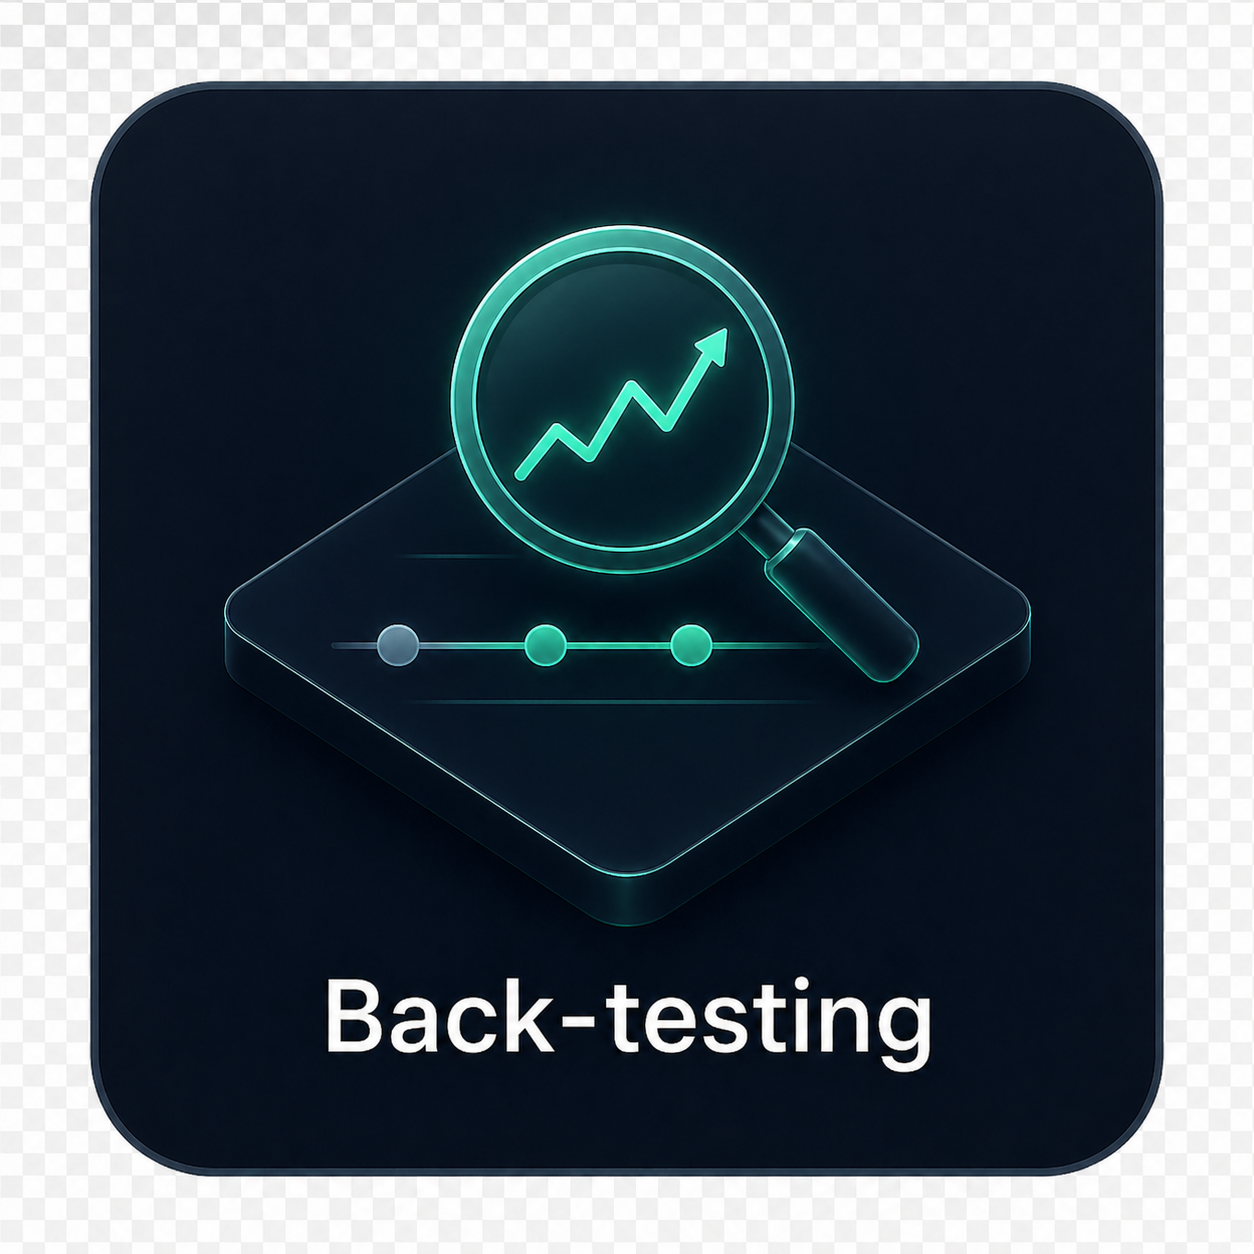
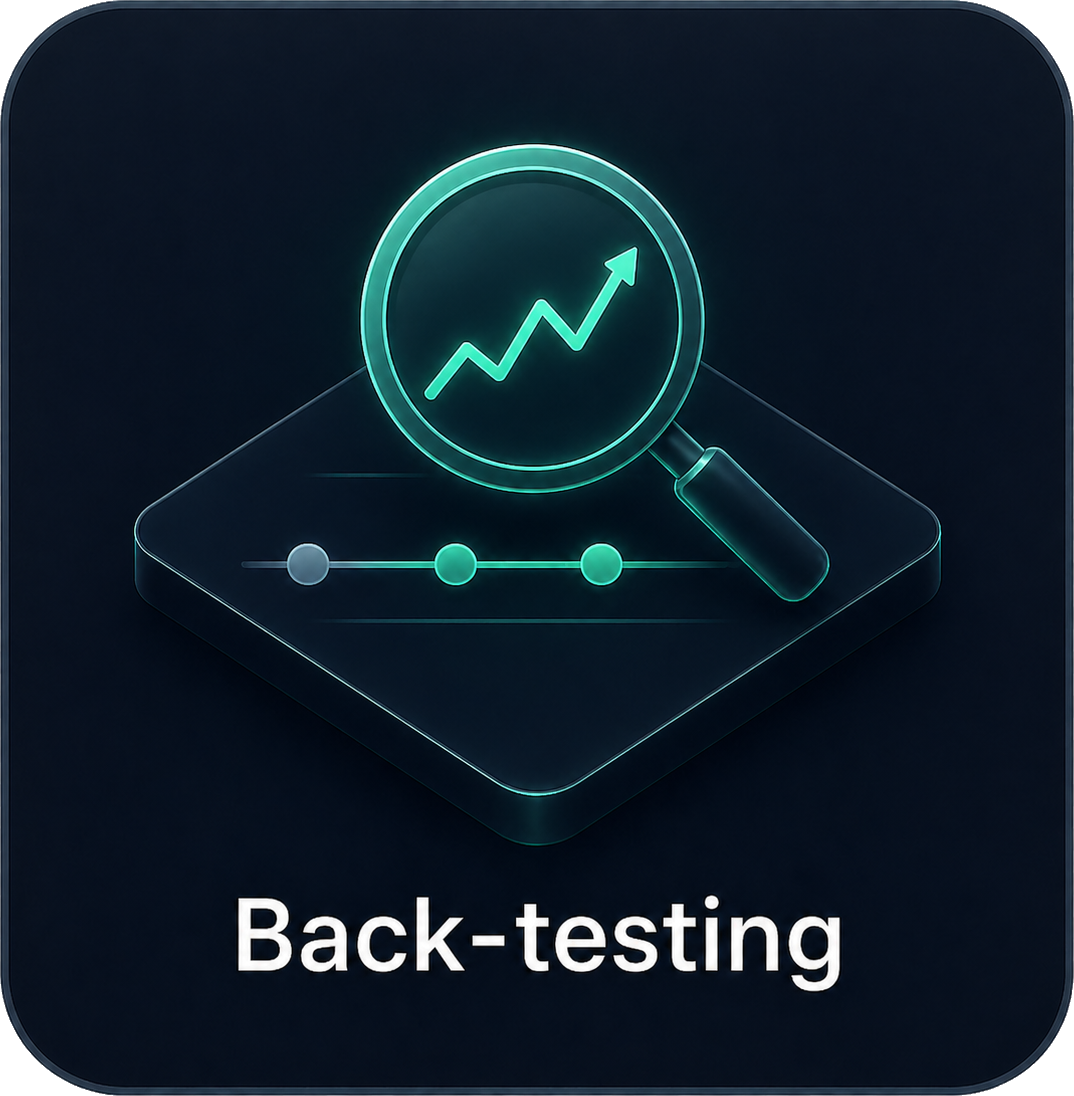
fix(cards): strip baked-in checkerboard transparency from card PNGs
User screenshot showed a visible light/dark checkerboard pattern in
the rounded corners around each tab card. Cause: the source PNGs
were exported as RGB (not RGBA) with the alpha channel flattened
into a literal "transparency indicator" checkerboard. The user
intended transparency; the export tool baked it in as RGB pixels.

Fix:
- Flood-filled from each corner, marking checkerboard pixels (R/G/B
  all > 200, max channel deviation < 25) as fully transparent.
  Flood-fill (vs. global threshold) guarantees we only touch pixels
  CONNECTED to a corner — interior highlights / accents in the card
  artwork are never erased.
- Cropped to the bounding box of remaining opaque pixels so there
  is no wasted padding (~1100x1100 down from 1254x1254).
- Saved back as RGBA. Verified: corner alpha=0, center alpha=255.
- File sizes dropped slightly (1.4MB → 1.2MB).

Saved the cleanup as scripts/clean-card-pngs.py so the same
transformation can be re-run when the user uploads more cards.
Idempotent: re-running on cleaned PNGs is a no-op (no checkerboard
left to fill).

Usage:
  python3 scripts/clean-card-pngs.py             # all cards
  python3 scripts/clean-card-pngs.py FILENAME    # one card

After this deploys + the browser/CDN cache turns over, the dark
page background will show through the rounded corners cleanly,
matching the reference design.

diff --git a/scripts/clean-card-pngs.py b/scripts/clean-card-pngs.py
@@ -1,0 +1,112 @@
+#!/usr/bin/env python3
+"""
+Clean checkerboard transparency from card PNGs.
+
+The card artwork PNGs are sometimes exported from image tools that
+flatten the alpha channel into a literal light/dark gray
+"transparency indicator" checkerboard. The card visual itself sits
+inside this padding, so when we render the PNG with rounded corners
+the checkerboard leaks out around the rounded card art.
+
+This script:
+  1. Loads each PNG in public/cards/ as RGBA
+  2. Flood-fills from each corner, marking checkerboard pixels
+     (bright + grayscale, R/G/B all > 200, max channel deviation < 25)
+     as fully transparent (alpha = 0). Flood-fill guarantees we only
+     touch pixels CONNECTED to the corner — interior highlights /
+     accents in the artwork are never accidentally erased.
+  3. Crops the result to the bounding box of remaining opaque pixels
+     so there's no wasted padding.
+  4. Writes back in-place.
+
+Idempotent: running on already-cleaned PNGs is a no-op (no
+checkerboard left to fill).
+
+Usage:
+  python3 scripts/clean-card-pngs.py             # process all cards
+  python3 scripts/clean-card-pngs.py FILENAME    # just one
+"""
+
+from PIL import Image
+from collections import deque
+from pathlib import Path
+import sys
+
+
+def is_checkerboard(px):
+    r, g, b = px[0], px[1], px[2]
+    if r < 200 or g < 200 or b < 200:
+        return False
+    return abs(r - g) < 25 and abs(g - b) < 25 and abs(r - b) < 25
+
+
+def flood_clear(img):
+    """Flood-fill from each corner; clear matching pixels. Returns count."""
+    w, h = img.size
+    px = img.load()
+    visited = bytearray(w * h)
+
+    def vidx(x, y):
+        return y * w + x
+
+    seeds = []
+    for sx, sy in [(0, 0), (w - 1, 0), (0, h - 1), (w - 1, h - 1)]:
+        if is_checkerboard(px[sx, sy]):
+            seeds.append((sx, sy))
+
+    queue = deque(seeds)
+    cleared = 0
+    while queue:
+        x, y = queue.popleft()
+        if x < 0 or y < 0 or x >= w or y >= h:
+            continue
+        if visited[vidx(x, y)]:
+            continue
+        visited[vidx(x, y)] = 1
+        if not is_checkerboard(px[x, y]):
+            continue
+        px[x, y] = (0, 0, 0, 0)
+        cleared += 1
+        queue.append((x + 1, y))
+        queue.append((x - 1, y))
+        queue.append((x, y + 1))
+        queue.append((x, y - 1))
+    return cleared
+
+
+def clean_one(path: Path) -> None:
+    img = Image.open(path).convert('RGBA')
+    cleared = flood_clear(img)
+    bbox = img.getbbox()
+    if bbox is None:
+        print(f'  {path.name}: image is fully transparent — skipping')
+        return
+    cropped = img.crop(bbox)
+    cropped.save(path, optimize=True)
+    print(f'  {path.name}: cleared {cleared:,} px → cropped to {cropped.size}')
+
+
+def main():
+    cards_dir = Path(__file__).resolve().parent.parent / 'public' / 'cards'
+    if not cards_dir.is_dir():
+        print(f'public/cards not found at {cards_dir}')
+        sys.exit(1)
+
+    targets = []
+    if len(sys.argv) > 1:
+        for arg in sys.argv[1:]:
+            p = cards_dir / arg
+            if not p.exists():
+                print(f'not found: {p}')
+                sys.exit(1)
+            targets.append(p)
+    else:
+        targets = sorted(cards_dir.glob('*.png'))
+
+    print(f'cleaning {len(targets)} PNG(s) in {cards_dir}')
+    for p in targets:
+        clean_one(p)
+
+
+if __name__ == '__main__':
+    main()
